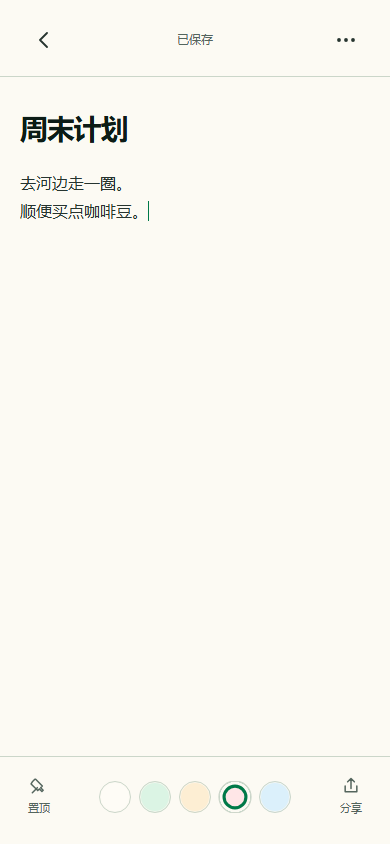
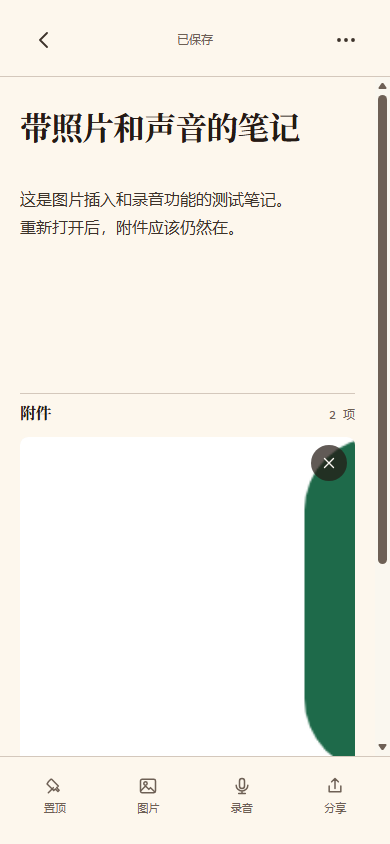
Fix Android image preview overlay

diff --git a/app.js b/app.js
@@ -605,8 +605,15 @@ async function renderAttachments() {
       image.src = url;
       image.alt = item.name || "笔记图片";
       image.loading = "lazy";
+      image.draggable = false;
       imageButton.append(image);
-      imageButton.addEventListener("click", () => openImageViewer(url, item.name));
+      const openPreview = (event) => {
+        event.preventDefault();
+        event.stopPropagation();
+        openImageViewer(url, item.name);
+      };
+      imageButton.addEventListener("click", openPreview);
+      image.addEventListener("click", openPreview);
 
       const remove = document.createElement("button");
       remove.type = "button";
@@ -657,13 +664,20 @@ function openImageViewer(url, name) {
   elements.imageViewerImage.src = url;
   elements.imageViewerImage.alt = name || "笔记图片";
   elements.imageViewerCaption.textContent = name || "";
-  elements.imageViewer.hidden = false;
+  if (typeof elements.imageViewer.showModal === "function") {
+    if (!elements.imageViewer.open) elements.imageViewer.showModal();
+  } else {
+    elements.imageViewer.setAttribute("open", "");
+  }
   requestAnimationFrame(() => elements.imageViewer.querySelector(".image-viewer-close")?.focus());
 }
 
 function closeImageViewer() {
-  elements.imageViewer.hidden = true;
-  elements.imageViewerImage.removeAttribute("src");
+  if (elements.imageViewer.open && typeof elements.imageViewer.close === "function") {
+    elements.imageViewer.close();
+  } else {
+    elements.imageViewer.removeAttribute("open");
+  }
 }
 
 async function addImages(files) {
@@ -1150,7 +1164,7 @@ function setSearch(value) {
 
 function handleGlobalKeydown(event) {
   if (event.key === "Escape") {
-    if (!elements.imageViewer.hidden) {
+    if (elements.imageViewer.open) {
       event.preventDefault();
       closeImageViewer();
       return;
@@ -1179,7 +1193,7 @@ function handleGlobalKeydown(event) {
 }
 
 window.handleNativeBack = () => {
-  if (!elements.imageViewer.hidden) {
+  if (elements.imageViewer.open) {
     closeImageViewer();
     return true;
   }

diff --git a/index.html b/index.html
@@ -239,7 +239,7 @@
     </section>
   </div>
 
-  <div class="image-viewer" id="imageViewer" hidden>
+  <dialog class="image-viewer" id="imageViewer" aria-label="图片预览">
     <button class="image-viewer-backdrop" type="button" data-close-image aria-label="关闭图片预览"></button>
     <figure class="image-viewer-figure">
       <img id="imageViewerImage" src="./icon-192.png" alt="">
@@ -248,7 +248,7 @@
         <svg aria-hidden="true"><use href="#icon-x"></use></svg>
       </button>
     </figure>
-  </div>
+  </dialog>
 
   <div class="toast" id="toast" role="status" aria-live="polite" hidden>
     <span id="toastMessage"></span>

diff --git a/styles.css b/styles.css
@@ -1606,9 +1606,29 @@ html[data-theme="recorder"] .record-dialog {
 }
 
 .image-viewer {
-  display: grid;
-  place-items: center;
+  display: none;
+  width: 100%;
+  max-width: none;
+  height: 100%;
+  max-height: none;
+  margin: 0;
   padding: var(--space-lg);
+  place-items: center;
+  overflow: hidden;
+  background: transparent;
+  border: 0;
+}
+
+.image-viewer[open] {
+  display: grid;
+}
+
+.image-viewer::backdrop {
+  background: color-mix(in oklab, var(--color-ink) 74%, transparent);
+}
+
+.image-viewer-backdrop {
+  background: transparent;
 }
 
 .image-viewer-figure {

diff --git a/README.md b/README.md
@@ -44,7 +44,7 @@ python -m http.server 4173
 
 ## Android APK
 
-`xiaoye-notepad.apk` 是可直接安装的调试签名 APK，当前版本 1.1.1，支持 Android 6.0 及以上。
+`xiaoye-notepad.apk` 是可直接安装的调试签名 APK，当前版本 1.1.2，支持 Android 6.0 及以上。
 
 APK 采用本地 WebView，不请求网络权限。录音时 Android 会请求麦克风权限。笔记和媒体附件保存在应用本地，卸载应用或清除应用数据会删除笔记，建议定期使用“备份全部笔记”导出文字内容。
 

diff --git a/RELEASE_NOTES.md b/RELEASE_NOTES.md
@@ -1,4 +1,4 @@
-# 记事本 v1.1.1
+# 记事本 v1.1.2
 
 ## 新增
 
@@ -8,6 +8,8 @@
 - 图片和录音使用 IndexedDB 持久化，重开应用后仍然保留
 - Android 录音权限、麦克风捕获和深色状态栏适配
 - 自动迁移 v1.0.0 的旧版本地笔记，修复升级后笔记消失
+- 图片预览改为原生模态层，修复部分 Android WebView 点击图片无响应
+- 支持点击图片、关闭按钮和系统返回键关闭预览
 
 ## 安装
 
